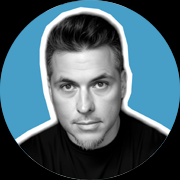
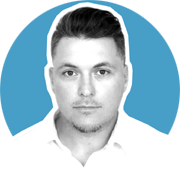
feature: update index page

diff --git a/index.html b/index.html
@@ -59,7 +59,7 @@
                         <!-- Setup and start animation! -->
                         <script>
                             var typed = new Typed('#element', {
-                            strings: ['Data Analysis','Business Intelligence','Analytics','Data Engineering','Diverse Skills, Unified Solutions'],
+                            strings: ['Data Analysis','Business Intelligence','Workflow Automation','Pipeline Engineering','Diverse Skills, Unified Solutions'],
                             typeSpeed: 50,
                             });
                         </script>
@@ -97,8 +97,9 @@
                     <div class="section-inner shadow-sm rounded">
                         <h2 class="heading">About Me</h2>
                         <div class="list">
-                            <p>I thrive on solving problems and streamlining processes. My focus is turning messy data into actionable insights that save time and money. Whether it’s analyzing trends, designing intuitive dashboards, or collecting, processing, and transforming data, I’m all about making data work for you.</p>
-                            <p>I have a passion for deriving actionable insights, improving processes, and continuously learning new technologies. I thrive in environments where I can make a lasting impact and learn new, cutting-edge technologies to deliver innovative solutions.</p>
+                            <p>I thrive on solving problems and streamlining processes. My natural drive to connect the dots lets me see roadblocks as opportunities to experiment. And that's when I’m at my best, when I can dig in and figure things out, especially if it involves learning something new. </p>
+                            <p>I am currently pursuing an M.S. in Data Science at Regis University, specializing in Data Engineering.  I apply my coursework in Big Data Architecture, Data Wrangling, and Data Collection and Preparation directly to my work as a Data Analyst at Spectrum. </p>
+                            <p>I am actively bridging the gap between analysis and engineering by building and automating ETL pipelines using Python, SQL, Snowflake, Redshift, and S3. This work focuses on eliminating manual reporting workflows and significantly improving data delivery turnaround times within production environments. </p>
                         </div>
                     </div>              
                 </section>
@@ -108,43 +109,44 @@
                     <div class="section-inner shadow-sm rounded">
                         <h2 class="heading">Professional Experience</h2>
                         <div class="resume-item" data-aos="fade-up">
-                            <h4>Business Planning & Analysis Manager</h4>
-                            <p>Spectrum <i>(Oct 2016 - July 2024)</i></p>
+                            <h4>Data Analyst</h4>
+                            <p>Spectrum <i>(Feb 2025 - Present)</i></p>
                             <ul>
-                                <li data-aos="fade-left" data-aos-duration="200">Led development of SQL-driven Tableau dashboards, streamlining financial and operational reporting and insights, saving $500K annually.</li>
-                                <li data-aos="fade-left" data-aos-duration="400">Built location-based Tableau visualizations to identify regional trends and support targeted operational initiatives, reducing overtime 15%.</li>
-                                <li data-aos="fade-left" data-aos-duration="600">Directed SQL query and ETL optimization, cutting report processing time by 40% and ensuring data integrity across revenue reports.</li>
-                                <li data-aos="fade-left" data-aos-duration="800">Collaborated with cross-functional teams to define KPIs and reporting logic, improving decision-making accuracy and reporting efficiency.</li>
+                                <li data-aos="fade-left" data-aos-duration="200">Engineered modular Python ingestion pipelines extracting data from Snowflake and the web via SQLAlchemy and Selenium. </li>
+                                <li data-aos="fade-left" data-aos-duration="400">Designed and implemented a layered data lake architecture on S3 (raw / staging / processed), replacing ad-hoc file storage with an intentional ingestion pattern aligned to modern ELT workflows.</li>
+                                <li data-aos="fade-left" data-aos-duration="600">Packaged Python data tooling as structured, reusable modules with centralized error handling, and structured logging.</li>
+                                <li data-aos="fade-left" data-aos-duration="800">Replaced manual batch file and PowerShell scheduling with a Python-based orchestration layer.</li>
+                                <li data-aos="fade-left" data-aos-duration="1000">Maintained all code in GIT workflow with automated UAT deployment hook on merge and manual promotion to production.</li>
+
                             </ul>
                         </div>
                         <div class="resume-item" data-aos="fade-up">
-                            <h4>Analytics & Development Manager</h4>
-                            <p>Bright House Networks <i>(Dec 2015 - Oct 2016)</i></p>
+                            <h4>Business Planning & Analysis Manager</h4>
+                            <p>Spectrum <i>(Oct 2018 - July 2024)</i></p>
                             <ul>
-                                <li data-aos="fade-left" data-aos-duration="200">Mentored analysts and business teams on data literacy and usage, fostering a self-service analytics culture, improving efficiency by 30%.</li>
-                                <li data-aos="fade-left" data-aos-duration="400">Developed predictive dashboards in Power BI integrating SQL-based trend analysis, reducing bad debt exposure by $40M.</li>
-                                <li data-aos="fade-left" data-aos-duration="600">Led Teradata migration and data mapping initiatives, boosting reporting accuracy by 10% and improving system integration.</li>
-                                <li data-aos="fade-left" data-aos-duration="800">Automated data transformation workflows using Python scripts to streamline recurring reporting tasks and reduce manual effort by 25%.</li>
+                                <li data-aos="fade-left" data-aos-duration="200">Led a data initiative to consolidate and model key expense metrics across source systems, improving decision-making speed by 30% and contributing to $3.2M in annual operational cost reductions.</li>
+                                <li data-aos="fade-left" data-aos-duration="400">Built and maintained Tableau dashboards surfacing operational expense trends that directly informed $500K in annual savings.</li>
+                                <li data-aos="fade-left" data-aos-duration="600">Engineered ETL pipelines to automate expense tracking workflows, achieving a 40% improvement in report generation efficiency while maintaining data accuracy end-to-end.</li>
+                                <li data-aos="fade-left" data-aos-duration="800">Automated overtime and work-hours reporting by replacing manual processes with scheduled Python pipelines feeding Tableau dashboards enabling data-driven workforce decisions that reduced overtime costs by 15%.</li>
                             </ul>
                         </div>
                         <div class="resume-item" data-aos="fade-up">
                             <h4>Business Intelligence Analyst</h4>
-                            <p>Bright House Networks <i>(Aug 2011 - Dec 2015)</i></p>
+                            <p>Bright House Networks <i>(Aug 2014 - Oct 2018)</i></p>
                             <ul>
-                                <li data-aos="fade-left" data-aos-duration="200">Created operational dashboards in Power BI, enabling near real-time visibility into cash flow trends and improving liquidity by $4.3M.</li>
-                                <li data-aos="fade-left" data-aos-duration="400">Used spatial data in Tableau to visualize performance across service areas, identifying gaps and supporting regional decision-making.</li>
-                                <li data-aos="fade-left" data-aos-duration="600">Designed and optimized SQL queries for financial and operational reporting, reducing processing time by 40%.</li>
-                                <li data-aos="fade-left" data-aos-duration="800">Partnered with stakeholders to translate business requirements into technical solutions, accelerating project delivery timelines by 20%.</li>
+                                <li data-aos="fade-left" data-aos-duration="200">Automated data extraction pipelines in Python and SQL, increasing analytics throughput by 40% and enabling self-service reporting for business stakeholders.</li>
+                                <li data-aos="fade-left" data-aos-duration="400">Reduced report production errors by 50% by designing and implementing data validation protocols across SQL transformation layers, enforcing data quality checks at the pipeline level before data reached reporting surfaces.</li>
+                                <li data-aos="fade-left" data-aos-duration="600">Led cross-functional requirements gathering to translate business needs into pipeline and data model specifications.</li>
+                                <li data-aos="fade-left" data-aos-duration="800">Built predictive models to forecast delinquency trends, enabling targeted interventions that reduced bad debt by $40M/yr.</li>
                             </ul>
                         </div>
                         <div class="resume-item" data-aos="fade-up">
-                            <h4>Web Developer / Database Administrator</h4>
-                            <p>Bright House Networks <i>(Mar 2005  - Aug 2011)</i></p>
+                            <h4>Web Developer/Database Adminisrator</h4>
+                            <p>Bright House Networks <i>(Mar 2011 - Aug 2014)</i></p>
                             <ul>
-                                <li data-aos="fade-left" data-aos-duration="200">Built and maintained SQL Server databases and automated reporting systems that improved decision-making capabilities by 40%.</li>
-                                <li data-aos="fade-left" data-aos-duration="400">Led SQL Server migration supporting over 1,000 users, ensuring minimal downtime and seamless data availability.</li>
-                                <li data-aos="fade-left" data-aos-duration="600">Developed internal ticketing system with built-in analytics, allowing real-time tracking and improving team productivity by 15%.</li>
-                                <li data-aos="fade-left" data-aos-duration="800">Implemented data validation protocols and reporting standards, reducing inconsistencies and boosting reporting accuracy by 20%.</li>
+                                <li data-aos="fade-left" data-aos-duration="200">Authored SQL-driven trend analysis and customer segmentation pipelines against multiple source systems, improving customer communication workflows and increasing cash flow by $4.3M.</li>
+                                <li data-aos="fade-left" data-aos-duration="400">Built automated ingestion pipelines in Python and SQL to consolidate data from multiple source systems into a unified data model, eliminating manual data entry and improving downstream reporting accuracy.</li>
+                                <li data-aos="fade-left" data-aos-duration="600">Developed a full-stack application integrating automated data pipelines to track technician performance and field activity metrics, contributing to an $8.5M increase in annual cash flow.</li>
                             </ul>
                         </div>
                     </div>                
@@ -277,7 +279,7 @@
                         <h2 class="heading">My Information</h2>
                         <div class="content">
                             <ul class="list-unstyled">
-                                <p><i class="fas fa-map-marker-alt"></i><span class="sr-only">Location:</span>Tampa Bay, FL</p>  
+                                <p><i class="fas fa-map-marker-alt"></i><span class="sr-only">Location:</span>Rochester, NY</p>  
                                 <p><i class="fas fa-envelope"></i><span class="sr-only">Email:</span><a href="mailto: [email redacted]">[email redacted]</a></p>
                                 <p><i class="fab fa-linkedin-in"></i><span class="sr-only">Website:</span><a href="https://www.linkedin.com/in/floresql/">linkedin.com/in/floresql</a></p>
                             </ul>
@@ -290,36 +292,36 @@
                          <h2 class="heading">Tech Skills</h2>
                          <div class="content">
                              <ul class="links list-inline list-icons">
-                                 <li class="list-inline-item" data-aos="fade-down-right" data-aos-duration="600"><i class="si si-tableau" title="Tableau"></i></li>
-                                 <li class="list-inline-item" data-aos="fade-down-right"><i class="si si-powerbi" title="Power BI"></i></li>
-                                 <li class="list-inline-item" data-aos="fade-down"><i class="si si-microsoftexcel" title="Advanced Excel"></i></li>
-                                 <li class="list-inline-item" data-aos="fade-down-left"><i class="si si-microsoftsqlserver" title="SQL Server"></i></li>
-                                 <li class="list-inline-item" data-aos="fade-down-left" data-aos-duration="600"><i class="si si-oracle" title="Oracle"></i></li>
+                                 <li class="list-inline-item" data-aos="fade-down-right" data-aos-duration="600"><i class="si si-tableau"></i></li>
+                                 <li class="list-inline-item" data-aos="fade-down-right"><i class="si si-python"></i></li>
+                                 <li class="list-inline-item" data-aos="fade-down"><i class="si si-snowflake"></i></li>
+                                 <li class="list-inline-item" data-aos="fade-down-left"><i class="si si-git"></i></li>
+                                 <li class="list-inline-item" data-aos="fade-down-left" data-aos-duration="600"><i class="si si-visualstudio"></i></li>
                                 
-                                 <li class="list-inline-item" data-aos="fade-down-right" data-aos-duration="600"><i class="si si-mysql" title="MySQL"></i></li>
-                                 <li class="list-inline-item" data-aos="fade-down-right"><i class="si si-postgresql" title="PostgreSQL"></i></li>
-                                 <li class="list-inline-item" data-aos="fade-down"><i class="si si-mongodb" title="MongoDB"></i></li>
-                                 <li class="list-inline-item" data-aos="fade-down-left"><i class="si si-nodedotjs" title="NodeJS"></i></li>
-                                 <li class="list-inline-item" data-aos="fade-down-left" data-aos-duration="600"><i class="si si-php" title="PHP"></i></li>
+                                 <li class="list-inline-item" data-aos="fade-down-right" data-aos-duration="600"><i class="si si-powerbi"></i></li>
+                                 <li class="list-inline-item" data-aos="fade-down-right"><i class="si si-github"></i></li>
+                                 <li class="list-inline-item" data-aos="fade-down"><i class="si si-amazons3"></i></li>
+                                 <li class="list-inline-item" data-aos="fade-down-left"><i class="si si-amazonaws"></i></li>
+                                 <li class="list-inline-item" data-aos="fade-down-left" data-aos-duration="600"><i class="si si-windowsterminal"></i></li>
+                                
+                                 <li class="list-inline-item" data-aos="fade-right" data-aos-duration="600"><i class="si si-microsoftsqlserver"></i></li>
+                                 <li class="list-inline-item" data-aos="fade-right"><i class="si si-oracle"></i></li>
+                                 <li class="list-inline-item" data-aos="fade-down"><i class="si si-postgresql"></i></li>
+                                 <li class="list-inline-item" data-aos="fade-left"><i class="si si-teradata"></i></li>
+                                 <li class="list-inline-item" data-aos="fade-left" data-aos-duration="600"><i class="si si-mysql"></i></li>
+                                                 
+                                 <li class="list-inline-item" data-aos="fade-up-right" data-aos-duration="600"><i class="si si-selenium"></i></li>
+                                 <li class="list-inline-item" data-aos="fade-up-right"><i class="si si-sqlalchemy"></i></li>
+                                 <li class="list-inline-item" data-aos="fade-up"><i class="si si-sqlite"></i></li>
+                                 <li class="list-inline-item" data-aos="fade-up-left"><i class="si si-amazonredshift"></i></li>
+                                 <li class="list-inline-item" data-aos="fade-up-left" data-aos-duration="600"><i class="si si-microsoftexcel"></i></li>
 
-                                 <li class="list-inline-item" data-aos="fade-right" data-aos-duration="600"><i class="si si-anaconda" title="Anaconda"></i></li>
-                                 <li class="list-inline-item" data-aos="fade-right"><i class="si si-jupyter" title="Jupyter Notebooks"></i></li>
-                                 <li class="list-inline-item" data-aos="fade-down"><i class="si si-python" title="Python"></i></li>
-                                 <li class="list-inline-item" data-aos="fade-left"><i class="si si-pandas" title="Pandas"></i></li>
-                                 <li class="list-inline-item" data-aos="fade-left" data-aos-duration="600"><i class="si si-numpy" title="Numpy"></i></li>
-
-                                 <li class="list-inline-item" data-aos="fade-up-right" data-aos-duration="600"><i class="si si-html5" title="HTML5"></i></li>
-                                 <li class="list-inline-item" data-aos="fade-up-right"><i class="si si-css3" title="CSS3"></i></li>
-                                 <li class="list-inline-item" data-aos="fade-up"><i class="si si-javascript" title="JavaScript"></i></li>
-                                 <li class="list-inline-item" data-aos="fade-up-left"><i class="si si-bootstrap" title="Bootstrap"></i></li>
-                                 <li class="list-inline-item" data-aos="fade-up-left" data-aos-duration="600"><i class="si si-react" title="React"></i></li>
-                
-                                 <li class="list-inline-item" data-aos="fade-up-right" data-aos-duration="600"><i class="si si-npm" title="NPM"></i></li>
-                                 <li class="list-inline-item" data-aos="fade-up-right"><i class="si si-dbeaver" title="DBeaver"></i></li>
-                                 <li class="list-inline-item" data-aos="fade-up"><i class="si si-windowsterminal" title="Terminal"></i></li>
-                                 <li class="list-inline-item" data-aos="fade-up-left"><i class="si si-github" title="Github"></i></li>
-                                 <li class="list-inline-item" data-aos="fade-up-left" data-aos-duration="600"><i class="si si-visualstudio" title="VS Code"></i></li>
-                             </ul>
+                                 <li class="list-inline-item" data-aos="fade-up-right" data-aos-duration="600"><i class="si si-pandas"></i></li>
+                                 <li class="list-inline-item" data-aos="fade-up-right"><i class="si si-numpy"></i></li>
+                                 <li class="list-inline-item" data-aos="fade-up"><i class="si si-anaconda"></i></li>
+                                 <li class="list-inline-item" data-aos="fade-up-left"><i class="si si-jupyter"></i></li>
+                                 <li class="list-inline-item" data-aos="fade-up-left" data-aos-duration="600"><i class="si si-microsoftsharepoint"></i></li>
+                            </ul>
                          </div>
                      </div>              
                  </aside>